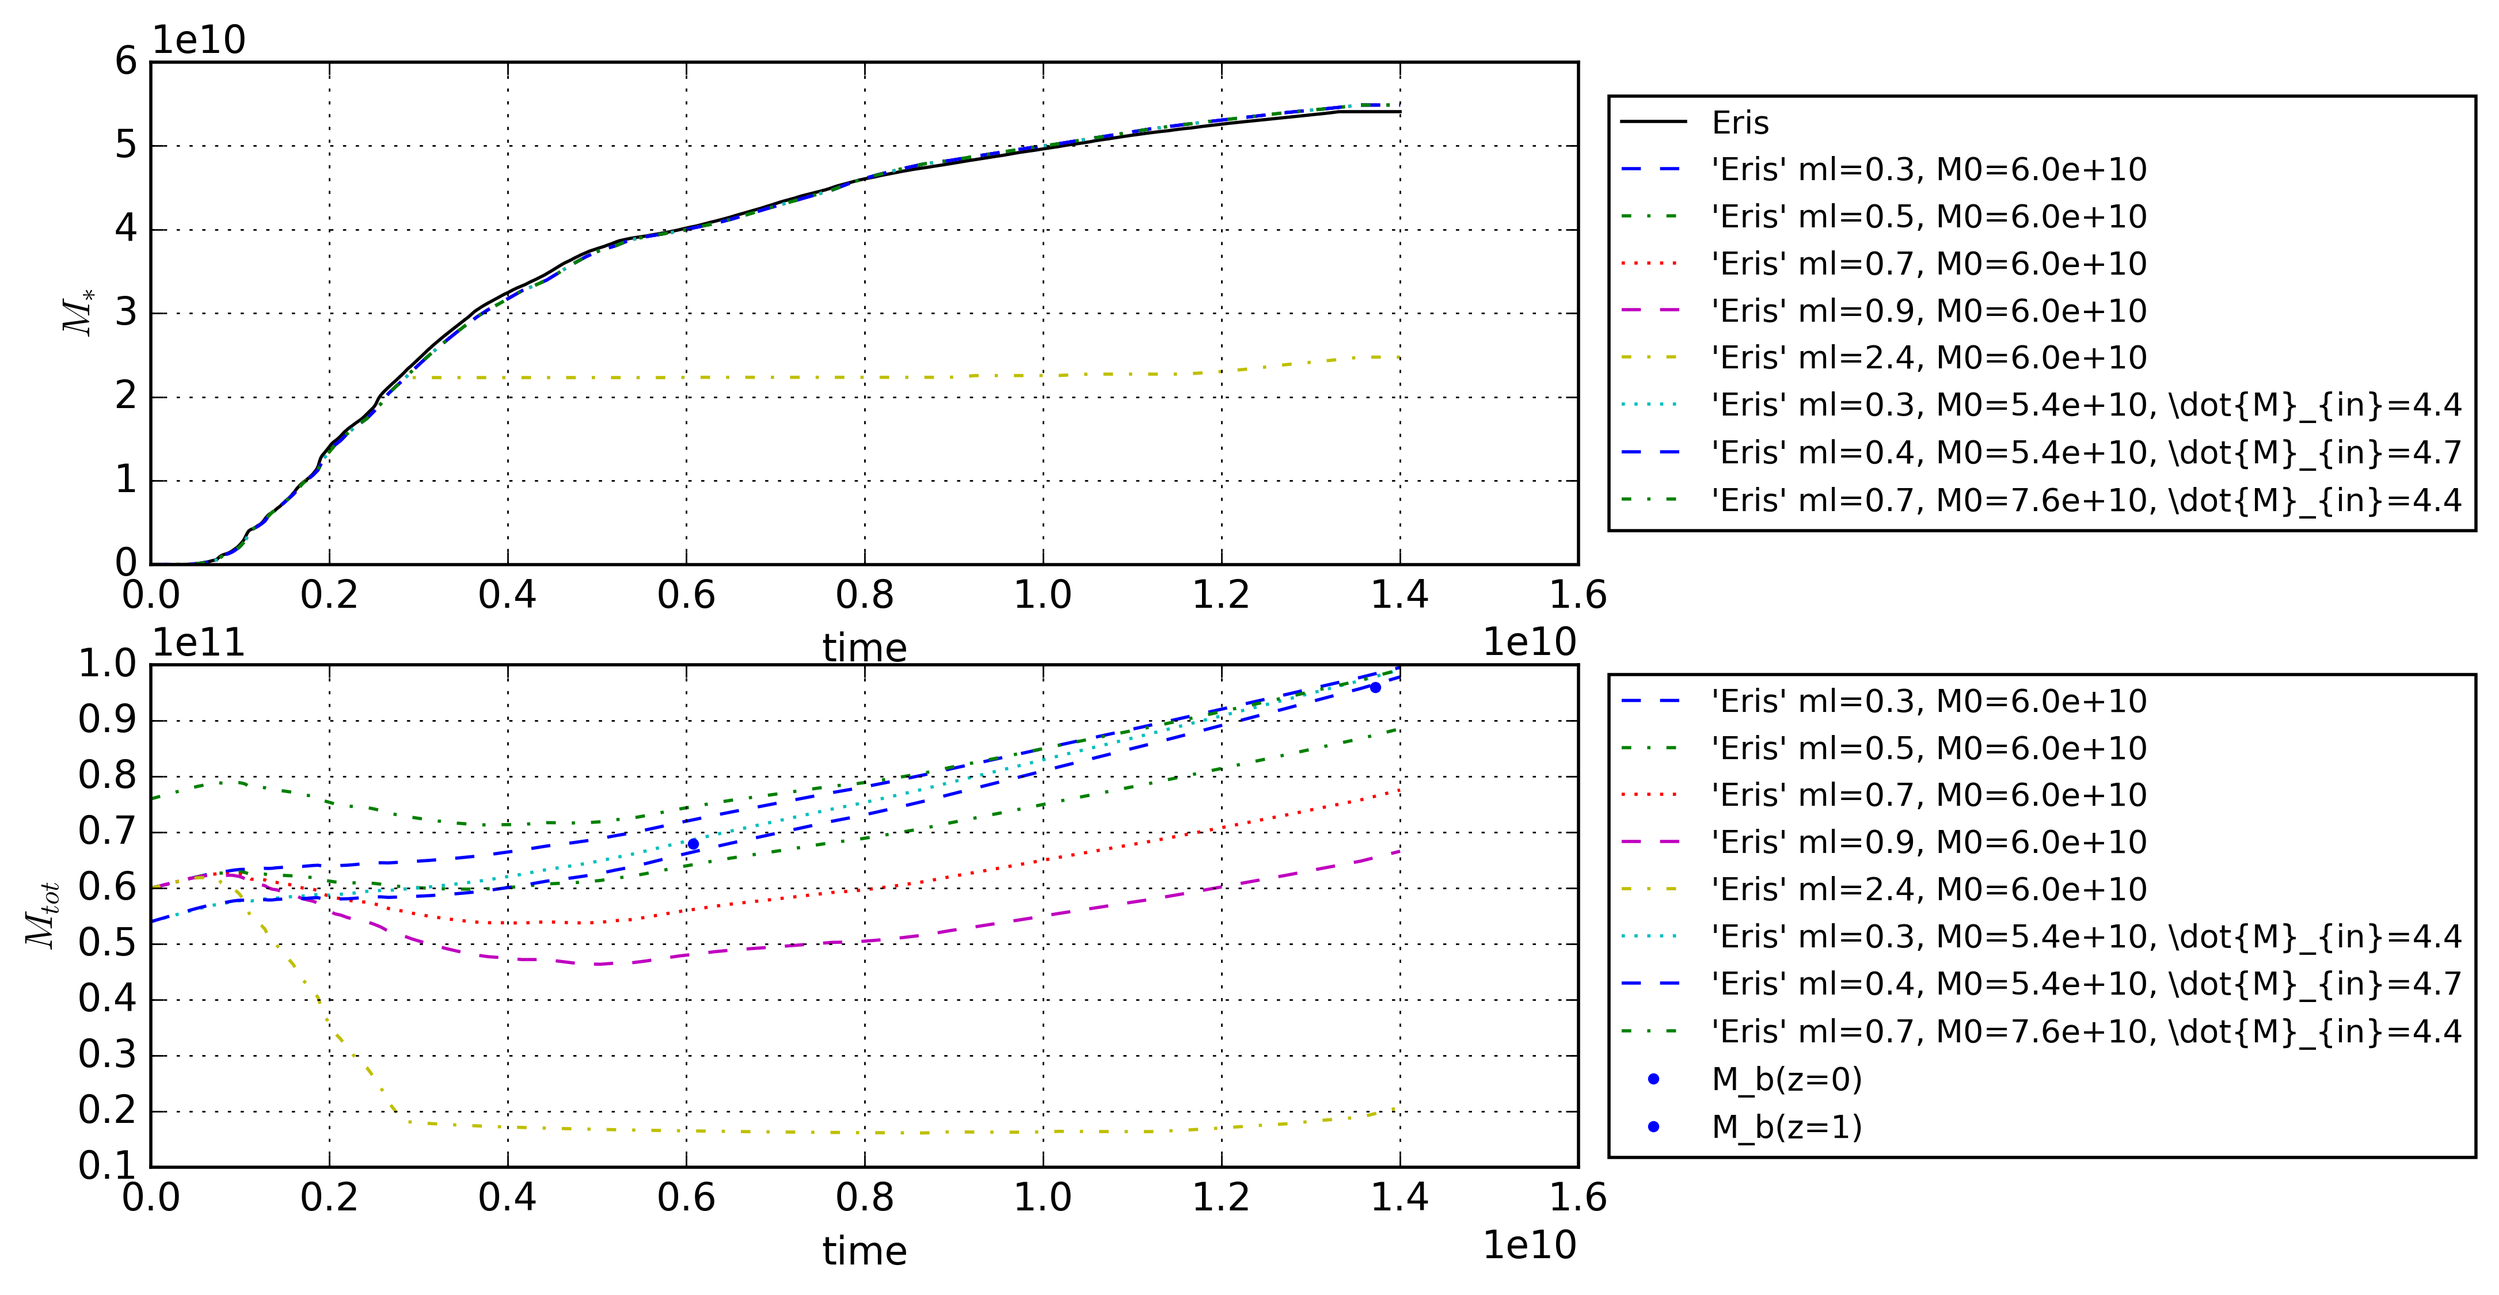
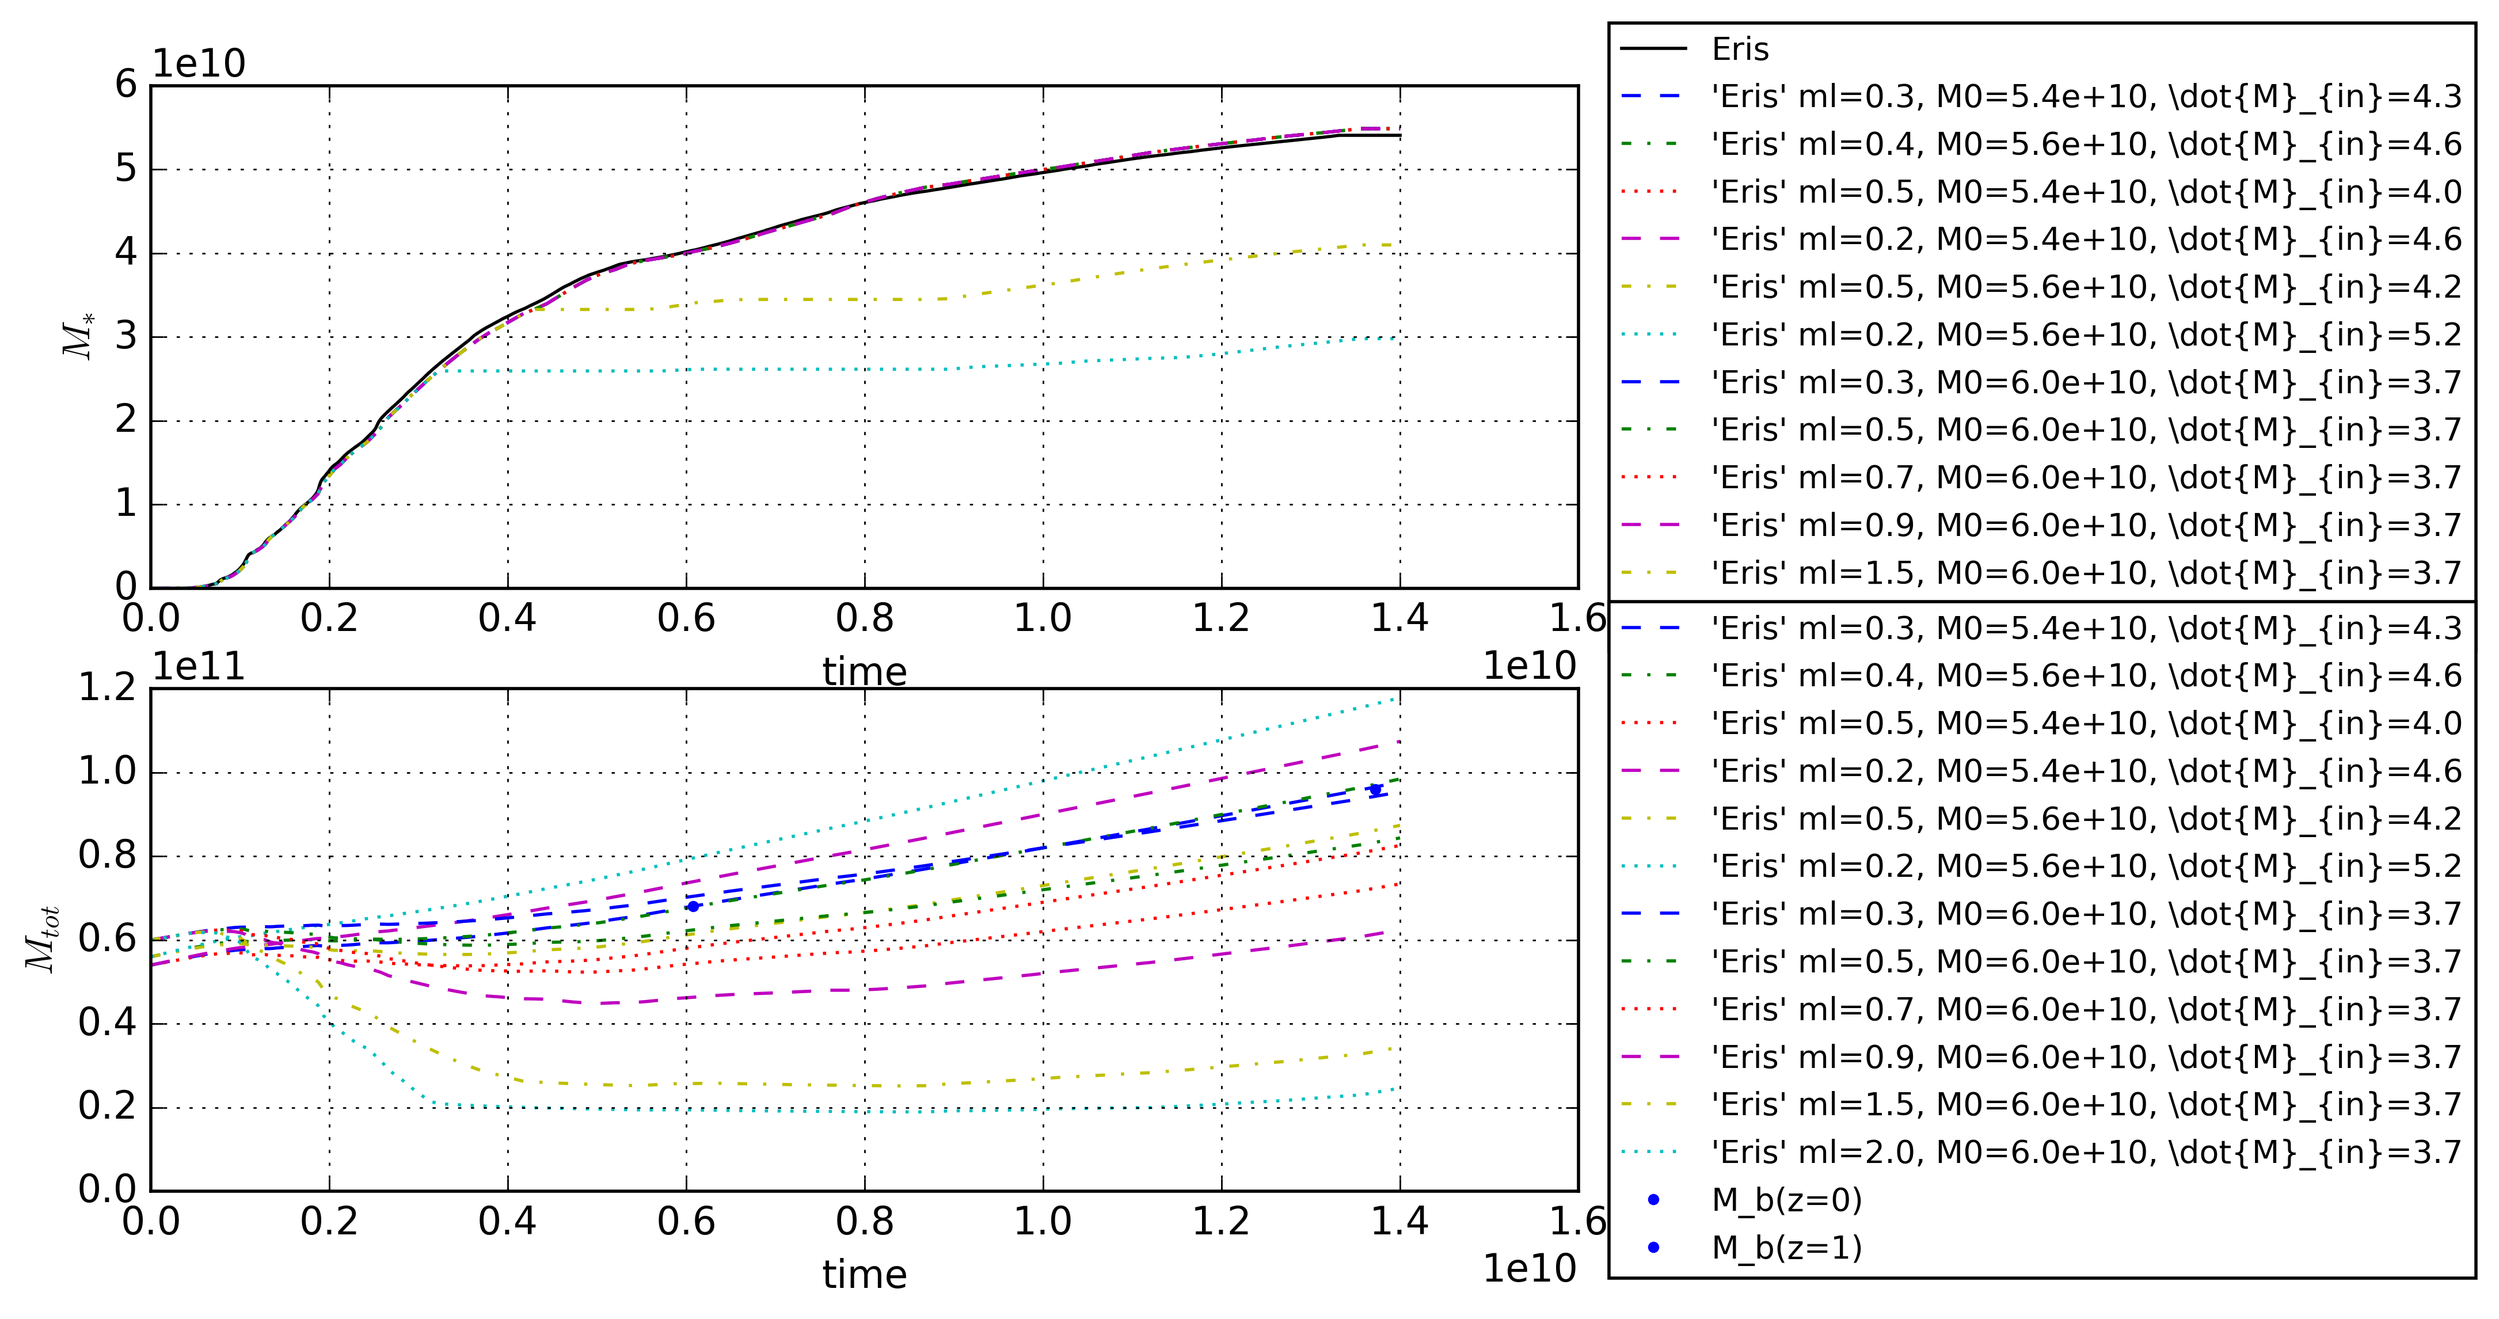
updating git with fitting-files

diff --git a/bestfit_param_omega/find_bestfit_param_v3/set_nsm_from_eris.py b/bestfit_param_omega/find_bestfit_param_v3/set_nsm_from_eris.py
@@ -15,8 +15,28 @@ import matplotlib.pyplot as pl
 from bestfit_param_omega.find_bestfit_param_v2.set_sn1a_from_cote import eris_bestfit
 from visualize import visualize, save_data
 
+#set number of timesteps in current model calculations
+num_steps = 0
+final = False
+
+try: #check input
+    import sys
+    input_arg = sys.argv[1]
+    num_steps = int(input_arg)
+except IndexError: #no input-arguments given
+    num_steps = 10
+except ValueError: #input-argument is string or float of string
+    if input_arg == "highres":
+        num_steps = 300
+    elif input_arg == "final":
+        num_steps = 300
+        final = True
+    else:
+        num_steps = int(input("How many timesteps do you want?"))
+except:
+    num_steps = int(input("How many timesteps do you want?"))
+
 if __name__ == '__main__':
-    num_steps = 300
     print "Number of timesteps: ", num_steps
 
 def plot_rates(loa_omegas, loa_omega_names, version_string, expl_string):
@@ -53,7 +73,7 @@ def plot_spectro(loa_omegas, loa_omega_names, version_string, expl_string):
         save_obj.make_numpy_file(["time", spectro_string])
 
 ##############################
-### Repeat mass parameters ###
+### Repeat star parameters ###
 ##############################
 if __name__ == '__main__' and False:
     eris_bestfit.bestfit_special_timesteps = 30
@@ -189,15 +209,14 @@ if __name__ == '__main__' and False:
 
     #loa_fractions = [8e-4, 9e-4]
     fraction = 8e-4
-    loa_ej_mass = [6e-2, 8e-2, 2e-1, 3e-1]
-    #for fraction, ej_mass in zip(loa_fractions, loa_ej_mass):
+    loa_ej_mass = [6e-2, 8e-2, 9e-2, 2e-1, 3e-1]
     for ej_mass in loa_ej_mass:
         eris_bestfit.bestfit_f_merger = fraction
         eris_bestfit.bestfit_m_ej_nsm = ej_mass
         eris_omega = omega_new(eris_bestfit)
         
         new_list_of_models.append(eris_omega)
-        new_list_of_model_names.append("'Eris' bestfit M_ej=%1.1e f_m=%1.1e"%(fraction, ej_mass))
+        new_list_of_model_names.append("'Eris' bestfit M_ej=%1.1e f_m=%1.1e"%(ej_mass, fraction))
 
     plot_rates(loa_omegas=new_list_of_models, loa_omega_names=new_list_of_model_names,
                  version_string="v3_rates",
@@ -209,7 +228,7 @@ if __name__ == '__main__' and False:
 #Grand conclusion
 #use realistic ejecta mass and appropriate dtd/merger fractions
 #eris_bestfit_nsm_dtd_power #already set
-eris_bestfit.bestfit_m_ej_nsm = 2e-1
+eris_bestfit.bestfit_m_ej_nsm = 3e-1
 eris_bestfit.bestfit_f_merger = 8e-4
 print "The grand NSM conclusion:"
 print "Dtd power-law: ", eris_bestfit.bestfit_nsm_dtd_power

diff --git a/bestfit_param_omega/find_bestfit_param_v1/vary_ml.py b/bestfit_param_omega/find_bestfit_param_v1/vary_ml.py
@@ -1,0 +1,45 @@
+### import modules ###
+#local module for project
+from directory_master import Foldermap 
+folder = Foldermap()
+folder.activate_environ()
+#GCE calculation and local visualization module
+from omega import omega 
+from visualize import visualize 
+#get some bestfit-value from 'Eris'
+from bestfit_param_omega.find_bestfit_param_v0.set_param_from_eris import *
+#get values and filename from document
+from read_parameter_space import read_param
+
+#Set cmdline arguments
+try:
+    from sys import argv
+    n = int(argv[1])
+except IndexError:
+    n = 10
+    
+#Run calculations of GCE with 'Omega'
+timesteps = n
+loa_massload_vals, save_name = read_param("mass_loading") #get values from 'parameter_space.txt'
+bestfit_mgal = 4.0e+10
+loa_omega_inst = [omega(special_timesteps=timesteps,
+                        in_out_control=True,
+                        mass_loading=massload,
+                        out_follows_E_rate=False,
+                        in_out_ratio=0.0,
+                        imf_type=bestfit_imf_type, sfh_array=bestfit_sfh_array,
+                        ns_merger_on=bestfit_ns_merger_on, nsmerger_table=bestfit_nsmerger_table,
+                        mgal=bestfit_mgal)
+                  for massload in loa_massload_vals] #omega-instances with new outflow
+loa_omega_names = ["$\dot{M}_{out}$=%1.2e*SFR"%massload for massload in loa_massload_vals]
+
+#visualize masses and sfr with 'visualize'
+title = "Vary $\dot{M}_{out}$ by mass_loading \n $M_{gal}(t_0)$=%1.1e"%(bestfit_mgal)
+#plot sfr, ism-mass, locked_mass, total_mass
+plot_obj = visualize(loa_omega_inst, loa_omega_names, num_yaxes=4)
+plot_obj.add_time_mass("total", index_yaxis=0)
+plot_obj.add_time_mass("outflow", index_yaxis=1)
+plot_obj.add_time_mass("locked", index_yaxis=2)
+plot_obj.add_time_rate("sf", index_yaxis=3)
+
+plot_obj.finalize(show=True, title=title, save=save_name)

diff --git a/bestfit_param_omega/chi2.py b/bestfit_param_omega/chi2.py
@@ -1,0 +1,32 @@
+"""
+Calculate the chi^2 parameter between one set of 'Eris' arrays and matching set of 'Omega' arrays
+"""
+
+### Imports and Global statement ###
+import sys
+import numpy as np
+from scipy.interpolate import interp1d
+
+def pearson_chi2(observed, expected):
+    #sources for statistic:
+    #http://www.economics.soton.ac.uk/staff/aldrich/1900.pdf p.165
+    #https://en.wikipedia.org/wiki/Pearson%27s_chi-squared_test
+    chi2 = (observed-expected)**2/expected
+    return np.sum(chi2)
+
+def chi2_eris_omega(x_eris, y_eris, x_omega, y_omega):
+    """
+    Make an interpolation function to map the omega-data
+    onto the eris-data, y'_omega=y_omega(x_eris).
+    Then calculate the pearson chi^2 parameter between
+    y_eris and y'_omega.
+    """
+    #make mask for removing inf-values in y_omega
+    inf_mask = np.logical_not(np.isinf(y_omega))
+    #make interpolation function with scipy
+    interpolation_omega = interp1d(x=x_omega[inf_mask], y=y_omega[inf_mask],
+                                   bounds_error=False, fill_value="extrapolate")
+    #map y_omega to x_eris values
+    y_omega_onto_eris = interpolation_omega(x_eris)
+    chi2_value = pearson_chi2(y_omega_onto_eris, y_eris)
+    return chi2_value

diff --git a/bestfit_param_omega/find_bestfit_param_v2/set_sn1a_from_cote.py b/bestfit_param_omega/find_bestfit_param_v2/set_sn1a_from_cote.py
@@ -9,11 +9,11 @@ folder.activate_environ()
 from bestfit_param_omega.omega_new import omega_new
 import matplotlib.pyplot as pl
 #get eris-parameters from 'mass-file'
-from bestfit_param_omega.find_bestfit_param_v1.set_mass_from_eris import eris_bestfit
+from bestfit_param_omega.find_bestfit_param_v2.set_stars import eris_bestfit
 from visualize import visualize, save_data
 
 if __name__ == '__main__':
-    num_steps = 30
+    num_steps = 300
     print "Number of timesteps: ", num_steps
 
 def plot_rates(loa_omegas, loa_omega_names, version_string, expl_string):
@@ -62,6 +62,7 @@ if __name__ == '__main__' and False:
     vis_obj.finalize(show=True)
 
 ##########################
+
 ### Set number of SN1a ###
 ##########################
 if __name__ == '__main__' and False:
@@ -188,7 +189,7 @@ eris_bestfit.bestfit_exp_dtd = 5.5e+6
 ##################################################
 ### Use a yield table with better O/Fe balance ###
 ##################################################
-if __name__ == '__main__' and True:
+if __name__ == '__main__' and False:
     def_yield_table = eris_bestfit.bestfit_sn1a_table
     eris_bestfit.bestfit_special_timesteps = num_steps
     new_list_of_models = []

diff --git a/bestfit_param_omega/find_bestfit_param_v0/set_param_from_eris.py b/bestfit_param_omega/find_bestfit_param_v0/set_param_from_eris.py
@@ -28,6 +28,7 @@ bestfit_bhnsmerger_table='yield_tables/r_process_arnould_2007.txt'
 ###
 bestfit_sn1a_on = True
 bestfit_tend = 14e+9 #14Gyr simulation
+bestfit_dt = 14e+6 #1000 timesteps in simulation (approximately same as 'Eris'-data) (only in effect when special_timesteps = 0)
 
 if __name__ == '__main__':
     from directory_master import Foldermap
@@ -80,7 +81,7 @@ if __name__ == '__main__':
     loa_omega_names = ["'Eris'", "deafult", "Milky Way default",
                        "Milky Way cte default"]
 
-    if True:
+    if False:
         #plot star-formation, kilonova, and supernova rates
         vis_obj = visualize(loa_omegas, loa_omega_names, num_yaxes=3)
         vis_obj.add_time_rate("sf", index_yaxis=0)
@@ -96,7 +97,7 @@ if __name__ == '__main__':
                                            "Applying 'Eris' to default")
             save_obj.make_numpy_file(["time", rate_key])
 
-    if True:
+    if False:
         #Plot spectroscopic data for [O/H], [Fe/H], [Eu/H]
         vis_obj = visualize(loa_omegas, loa_omega_names,
                             num_yaxes=3)

diff --git a/bestfit_param_omega/find_bestfit_param_v0/conclusion.py b/bestfit_param_omega/find_bestfit_param_v0/conclusion.py
@@ -1,0 +1,16 @@
+"""
+Set all parameters determined in 'set_param_from_eris'
+"""
+from directory_master import Foldermap
+folder = Foldermap()
+import numpy as np
+
+bestfit_imf_type='kroupa93'
+bestfit_sfh_array = np.loadtxt(folder.eris_sfh_file)
+
+bestfit_ns_merger_on = True
+bestfit_bhns_merger_on = True
+bestfit_nsmerger_table = 'yield_tables/r_process_arnould_2007.txt'
+bestfit_sn1a_on = True
+bestfit_tend = 14e+9 #14Gyr simulation
+bestfit_dt = 14e+6 #only activated when special_timesteps=0 #1000 constant timesteps

diff --git a/bestfit_param_omega/find_bestfit_param_v2/set_stars.py b/bestfit_param_omega/find_bestfit_param_v2/set_stars.py
@@ -66,7 +66,7 @@ if __name__ == '__main__' and False:
 ####################
 ### Yield-tables ###
 ####################
-if __name__ == '__main__' and True:
+if __name__ == '__main__' and False:
     def_yield_table = eris_bestfit.bestfit_table
     eris_bestfit.bestfit_special_timesteps = num_steps
     new_list_of_models = []
@@ -178,3 +178,4 @@ if __name__ == '__main__' and False:
 #no effect
 
 pl.show()
+

diff --git a/bestfit_param_omega/find_bestfit_param_v3/conclusion.py b/bestfit_param_omega/find_bestfit_param_v3/conclusion.py
@@ -1,6 +1,6 @@
 """
 This is a summary of parameters found by changing nsm-parameters in 'wset_nam_from_eris'
 """
-bestfit_m_ej_nsm = 2e-1
+bestfit_m_ej_nsm = 3e-1
 bestfit_f_merger = 8e-4
 bestfit_nsm_dtd_power = [50e+6, 14e+9, -2]

diff --git a/bestfit_param_omega/find_bestfit_param_v1/summary.py b/bestfit_param_omega/find_bestfit_param_v1/summary.py
@@ -20,3 +20,6 @@ bestfit_t_nsm_coal = 1.0e+6
 #imf_bdys is unchanged
 #f_arfo is unchanged
 
+import sys
+sys.exit("This module is currently outdated!")
+

diff --git a/bestfit_param_omega/find_bestfit_param_v2/README.md b/bestfit_param_omega/find_bestfit_param_v2/README.md
@@ -23,20 +23,20 @@ Results
   - Found minimal variation
   - `nugrid_MESAonly_fryer12delay_wind_preexp` seems the best fit, by having the least amount of iron and most oxygen.
   ![agbm-tables](data/star_parameters_v1_n30.png)
+- Transitionmass between AGB and massive stars have almost no effect on spectroscopic iron, 
+higher transitionmass means lower iron but the effect is neglectable. Leave as is! ** Rather state that you leave it at the default value of XX**
+![transitionmass](data/star_parameters_v2_n30.png)
 - Population III stars
   - various tables have no effect on spectroscopic data **Can you explain in two lines why? I assume it's because you're considering heavy elements that are not produced in significant amounts by popIII stars. Btw. you should probably also comment on the discrepancy in Eu first time you show it (just stating that your only partway in the parameter tuning)**
   ![pop3-tables](data/star_parameters_v3_n300.png)
   - boundaries of initial mass function **Does not appear to have any significant effect either**
   ![pop3-imf](data/star_parameters_v4_n300.png)
-- Transitionmass between AGB and massive stars have almost no effect on spectroscopic iron, 
-higher transitionmass means lower iron but the effect is neglectable. Leave as is! ** Rather state that you leave it at the default value of XX**
-![transitionmass](data/star_parameters_v2_n30.png)
 - SN1a numbers ** rates?** scale all spectroscopic abundances up and down (unsurprisingly). Want a value somewhere between 1e-4 and 1e-3 supernovae per solar mass. This prioritizes iron over oxygen.
   - nb1a ~ 8e-4
 ![sn1a-numbers1](data/sn1a_parameters_v1_spectro_n30.png) 
 - SN1a delay-time distribution: **Explain in few words what the delay time distribution is, and that power-law, gaussian and exponential are the standard choices (provide a reference, can possibly just be an OMEGA paper**
   - power-law: Minimal effect, flatter distribution gives slightly less iron between 1 and 6 Gyr.
-  ![sn1a-power-law](data/sn1a_parameters_v2_power_spectro_n30.png)
+  ![sn1a-power-law](data/sn1a_parameters_v2_powerlaw_spectro_n30.png)
   - gaussian: slighlty less iron for distribution with old mean.
   ![sn1a-gauss](data/sn1a_parameters_v2_gauss_spectro_n30.png)
   - exponential: weird effect with exponential decay-time lower then 5 Myr(see plots).

diff --git a/bestfit_param_omega/find_bestfit_param_v1/README.md b/bestfit_param_omega/find_bestfit_param_v1/README.md
@@ -19,20 +19,20 @@ Results/progress
 
 First apply inflow and initial gas mass only. The best fit is an initial gas mass ~4.4e+10 M\_sol and a **constant** inflow rate of ~3.7 M\_sol/yr.
 ![initial plus inflow only](data/mass_parameters_v1_n1100.png)
-** Maybe it's worth do do some of these plots relative to ERIS rather than just comparing?**
+**Maybe it's worth do do some of these plots relative to ERIS rather than just comparing?**
 
 Now increase inflow and initial gas mass slightly, and try different values for mass-loading(solar masses ejected from galaxy per solar masses exploded). 
 The inflow rate is increased to 4.0 M\_sol/yr and the initial mass of gas increased to 5.6e+10 M\_sol.
 The mass-loading factor has to be as low as 0.3 in order to not eject to much chemically evolved gas.
 
-Outflow cannot reproduce the "valleys of death" in the spectroscopic data.
+Outflow cannot reproduce the "valleys of death" in the spectroscopic data, only slight variation around dips.
 ![mass-loading](data/mass_parameters_v2_mass_n300.png)
 ![mass-loading](data/mass_parameters_v2_spectro_n300.png)
 
 If the initial gas mass is fixed to the final, total mass from the 'Eris' data, the new 'Eris-lookalike' can be compared to the 'default', 'Milky Way default', and "Milky Way cte default' already existing in 'Omega'. Increasing the initial gas mass removes the issue on "running out of gas". The results are plotted below.
 
 ![final masses](data/mass_parameters_v3_masses_n300.png)
-** Where do the Mb data points come from? Observations/simulations?**
+**Where do the Mb data points come from? Observations/simulations?**
 ![final rates](data/mass_parameters_v3_rates_n300.png)
 ![final spectroscopic](data/mass_parameters_v3_spectro_n300.png)
 
